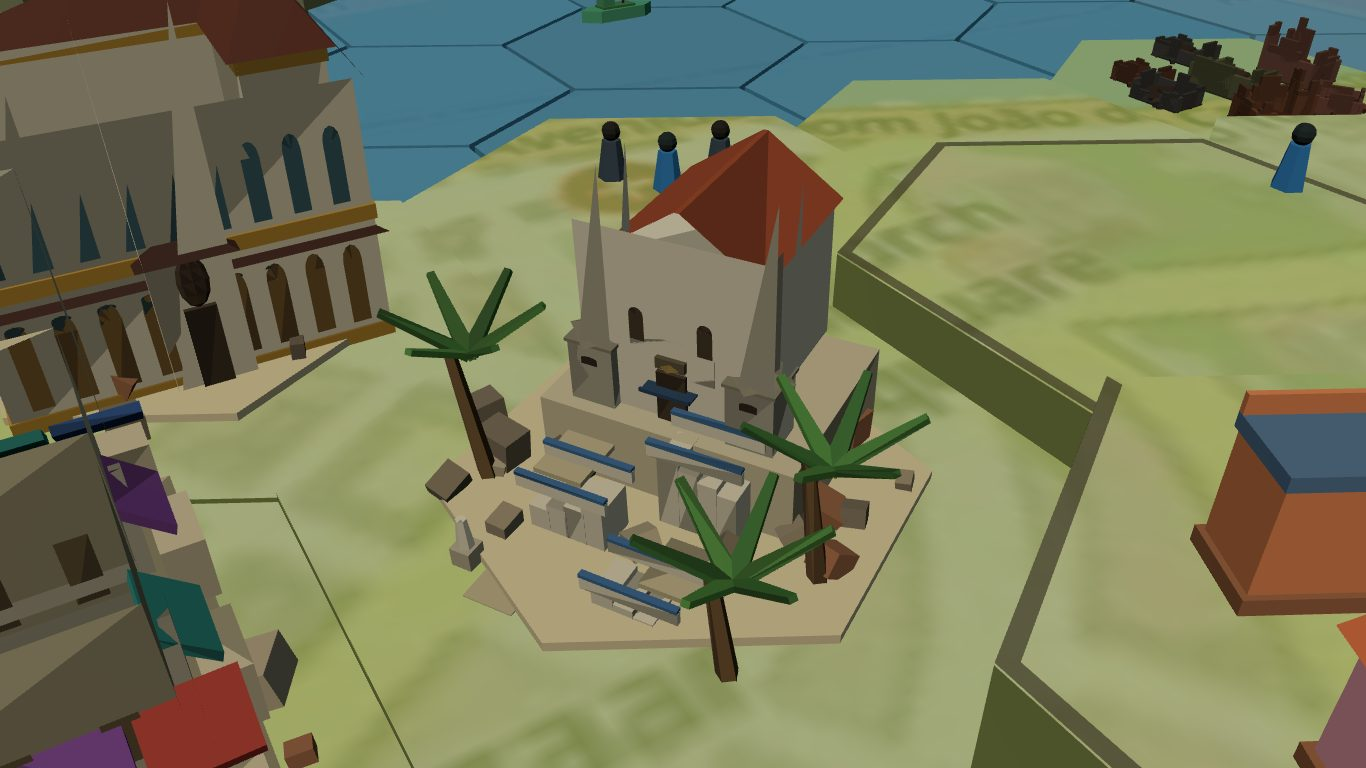
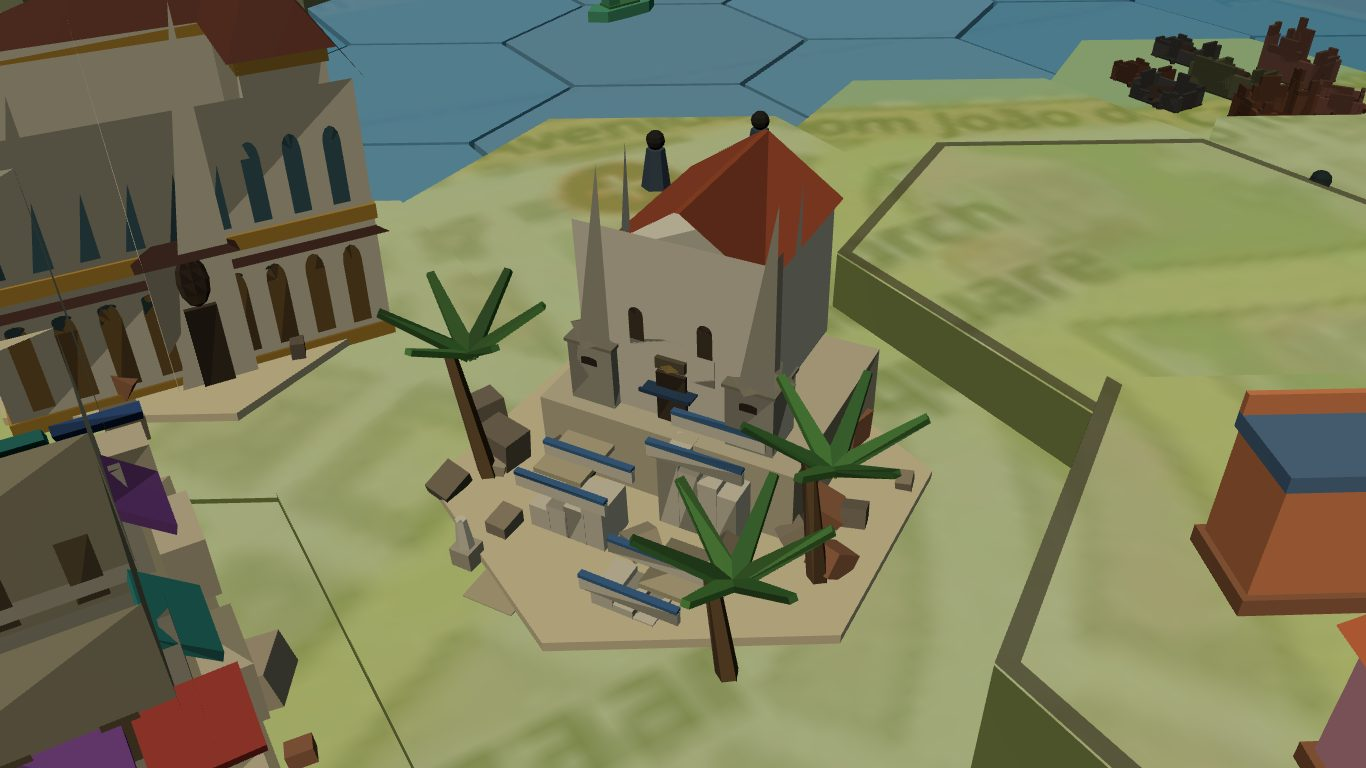
Section 21.3: landmarkLevels for the bots; the shots defend 2050 in part for a damaged landmark
Claude-Session: https://claude.ai/code/session_01CR8PN9tFYneT4rrWy2Y36p

diff --git a/tools/panjimBots/bots.ts b/tools/panjimBots/bots.ts
@@ -25,6 +25,7 @@ import { resolveChallenge, ZoneIndex } from "../../src/core/zones";
 import { computeCombos } from "../../src/core/combos";
 import { computeWater, damageAt, floodsHouse, HAZARD_MODEL, LANDFALL_ZONE } from "../../src/core/hazardModel";
 import { HEAT_LEAD_YEARS } from "../../src/core/exposure";
+import { landmarkDamageSoFar } from "../../src/core/landmarkDamage";
 import type { ChallengeKind, ScheduledChallenge } from "../../src/core/climate";
 import { computePanjimIndex } from "../../src/core/panjimIndex";
 import { hashSeed, Rng } from "../../src/core/rng";
@@ -757,6 +758,19 @@ export function runBot(persona: Persona, seed: string, level: LevelDef = BOT_LEV
   const player = new Player(persona, seed, level);
   PLAY[persona](player);
   return player.result();
+}
+
+/** Each landmark's damage after each storm (Section 21.3: 1 damaged, 2 destroyed, as the board draws them), for a play style's run. */
+export function landmarkLevels(persona: Persona, seed: string): { storm: string; damaged: string[]; destroyed: string[] }[] {
+  const player = new Player(persona, seed);
+  PLAY[persona](player);
+  const records: { depth: ReadonlyMap<string, number>; wind?: ReadonlyMap<string, number> }[] = [];
+  return player.run.schedule.map((c) => {
+    const record = player.run.stormRecords.get(c.id);
+    if (record) records.push(record);
+    const levels = MAP.monuments.map((m) => ({ name: m.name, level: landmarkDamageSoFar(records, `${m.q},${m.r}`) }));
+    return { storm: c.id, damaged: levels.filter((l) => l.level === 1).map((l) => l.name), destroyed: levels.filter((l) => l.level === 2).map((l) => l.name) };
+  });
 }
 
 export const SEEDS = Array.from({ length: 20 }, (_, i) => `bot-seed-${i + 1}`);

diff --git a/tools/section21Shots.ts b/tools/section21Shots.ts
@@ -8,7 +8,7 @@
  *   - each storm: frames as its homes drop into ruins (2030 only, every
  *     second of storm time); after it, the ruins round its path, and the
  *     ruins on the board equal the homes lost on the result card;
- *   - after 2050: a damaged landmark close up.
+ *   - a damaged landmark close up (after 2030, 2040 or a partly defended 2050) and a destroyed one.
  * Usage: npx tsx tools/section21Shots.ts <width> <height> [outDir]. Exits 1 if a check fails.
  */
 import { chromium, type Page } from "playwright";
@@ -185,6 +185,9 @@ check(floodRuins[0] === 0 && floodRuins[floodRuins.length - 1] > 10 && floodRuin
 await page.evaluate(`window.__panjimForTest.host.challengeFx.freeze(null)`);
 ruins = await afterStorm("2040", world(14, 18), 3, ruins);
 await closeUp(1, await damagedNow());
+// 2050 partly defended (eight defences beside the homes at risk, as a player answering the warning): undefended,
+// every landmark ends destroyed; defended in part, some are only damaged (Section 21.3's two looks).
+await page.evaluate(`window.__panjimScenarioForTest("defend-risk")`).catch(() => undefined);
 await page.evaluate(`window.__panjimScenarioForTest("to-results")`).catch(() => undefined);
 ruins = await afterStorm("2050", world(4, 20), 3, ruins);
 const landmarks = await damagedNow();
